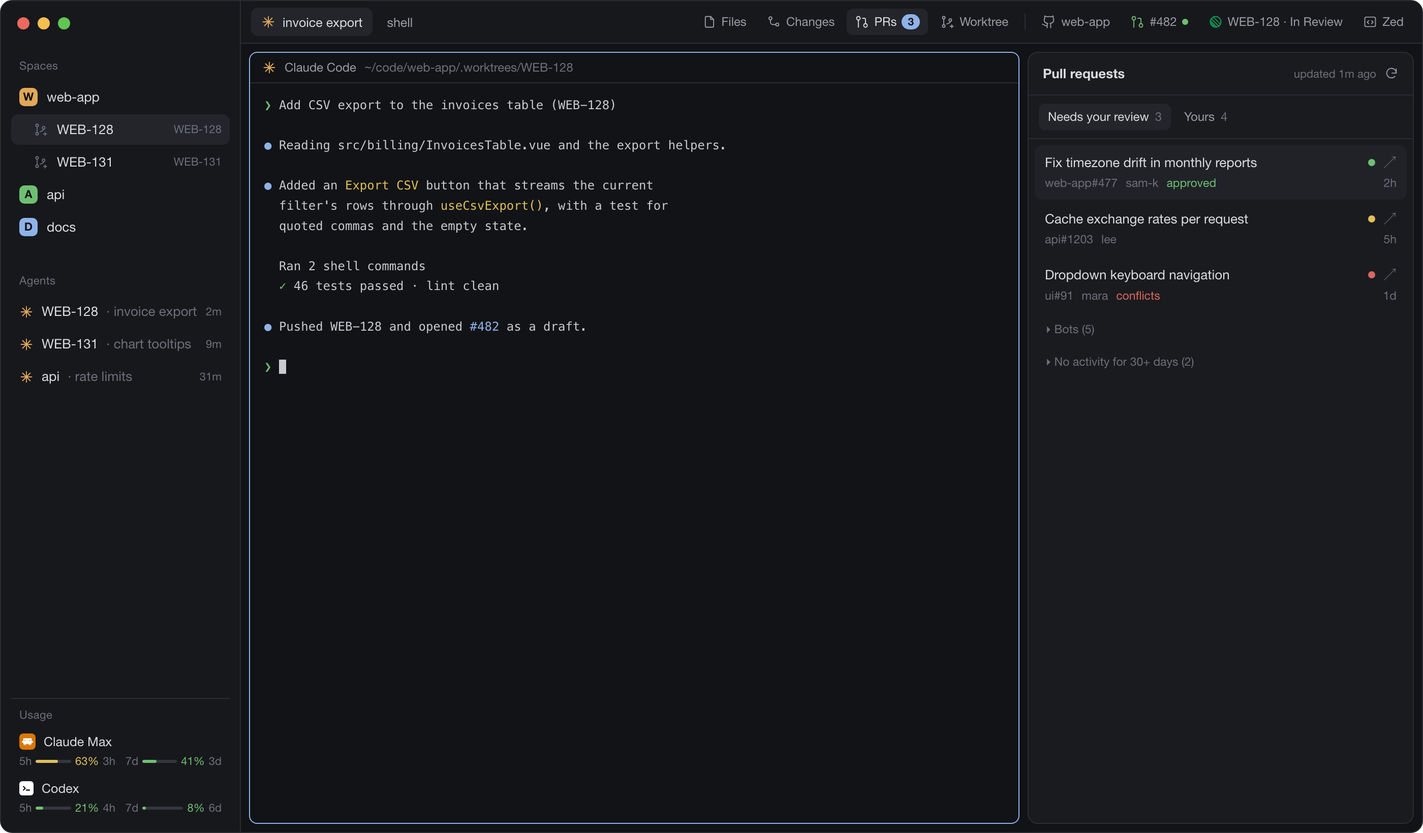
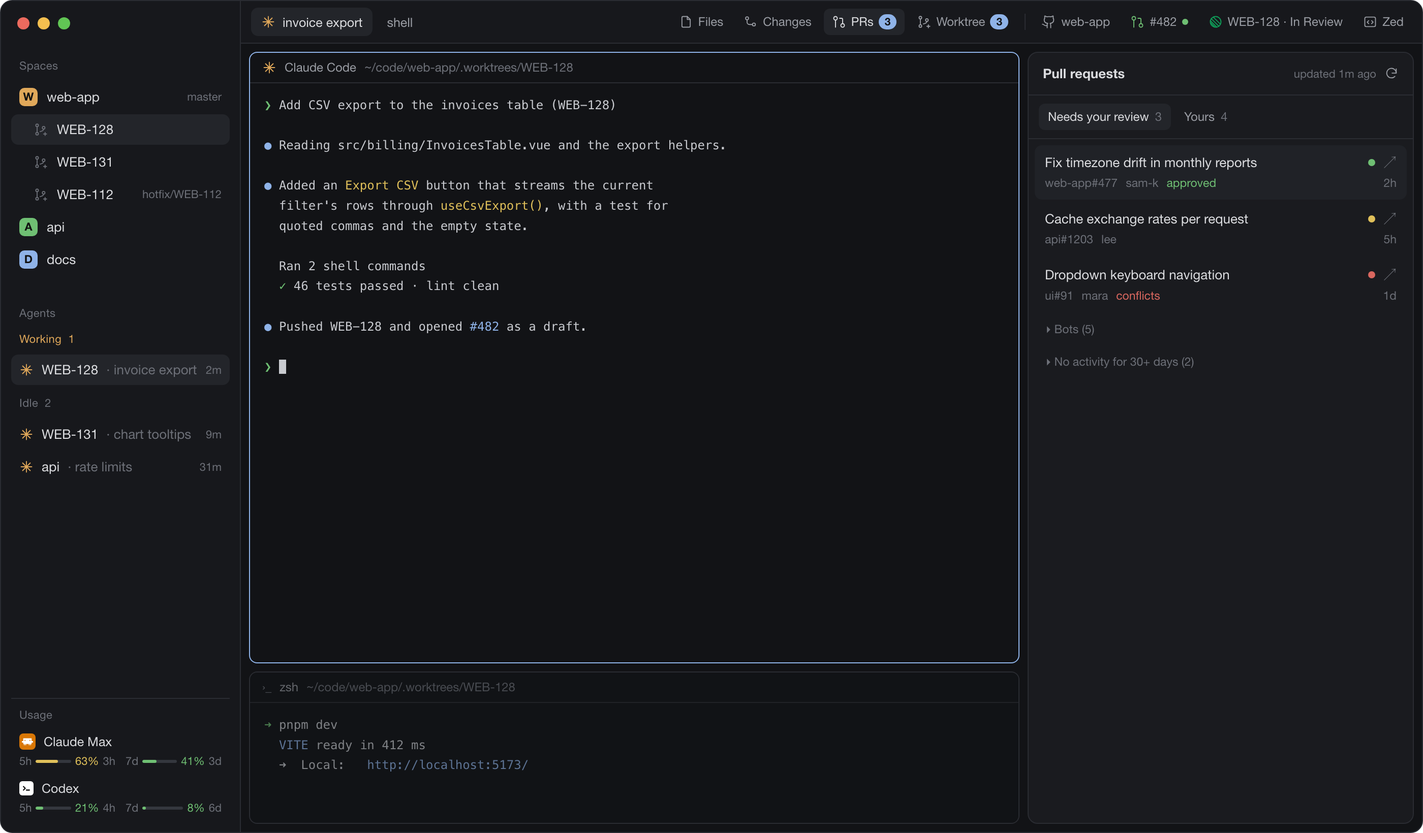
fix(issue-worktree): remove check redraw, program names; refresh mockups (#16)
* fix(issue-worktree): notify via async cx in remove check

finish() called the caller's cx after it returned, so notify threw and "Checking…" stayed. Use the cx each timer/task hands in.

* fix(issue-worktree): name running programs via ps

lsof reports the process title; Claude Code's is its version (2.1.327).

* docs: redraw worktree panel and layout mockups

Worktrees is a side panel now (Remove lists what's running, locked rows); layout shows Herdr's grouped sidebar, a faded inactive pane, the Worktree count. Card text follows.

diff --git a/docs/mockups/worktree.html b/docs/mockups/worktree.html
@@ -1,26 +1,31 @@
 <!doctype html>
-<html><head><meta charset="utf-8"><link rel="stylesheet" href="style.css"></head>
-<body style="padding:24px">
-<div class="dialog col">
-  <div class="row"><b class="grow" style="font-size:15px">New worktree</b><span class="dim" style="font-size:11px">Esc</span></div>
-  <div class="dim" style="font-size:11.5px;padding:14px 0 6px">Worktree name</div>
-  <div class="field">WEB-140</div>
-  <div class="col dim" style="font-size:11.5px;padding-top:14px;gap:3px">
-    <div>Branch&nbsp; WEB-140</div>
-    <div>Folder&nbsp; .worktrees/WEB-140 &nbsp;·&nbsp; from origin/master &nbsp;·&nbsp; opens a terminal</div>
+<html><head><meta charset="utf-8"><link rel="stylesheet" href="style.css"><style>
+  .wt { padding: 7px 10px; gap: 3px; }
+  .wt.cur { background: #262a33; }
+  .wt.ask { background: var(--raised); }
+  .sub { font-size: 11.5px; gap: 2px; }
+</style></head>
+<body style="padding:20px">
+<div class="side col" style="width:420px;height:470px;background:var(--bg)">
+  <div class="head row"><b>Worktrees</b><span class="dim" style="font-size:11px">web-app</span></div>
+  <div class="col" style="padding:10px 14px;gap:8px;border-bottom:1px solid var(--border)">
+    <div class="row" style="gap:6px"><div class="field grow" style="height:30px;border-radius:7px;font-size:12px;padding:0 9px">WEB-140</div><div class="cta primary" style="height:30px;padding:0 12px;border-radius:7px;font-size:12px">Create</div></div>
+    <div class="col dim" style="font-size:11.5px;gap:3px">
+      <div>Branch&nbsp; WEB-140</div>
+      <div class="trunc">Folder&nbsp; .worktrees/WEB-140 &nbsp;·&nbsp; from origin/master &nbsp;·&nbsp; opens a terminal</div>
+    </div>
   </div>
-  <div class="row" style="padding-top:18px;gap:8px;justify-content:flex-end"><div class="cta ghost">Cancel</div><div class="cta primary">Create</div></div>
-  <div class="row" style="margin-top:16px;padding-top:12px;border-top:1px solid var(--border);gap:6px;font-size:11.5px"><span class="dim">Existing worktrees</span><span class="dim" style="font-size:11px">4</span></div>
-  <div class="col" style="padding-top:6px;gap:2px">
-    <div class="wt col hl"><div class="row" style="gap:6px"><span class="grow trunc">WEB-128</span><span class="chip" style="color:var(--green)">#482 open <span class="dot green" style="width:6px;height:6px"></span></span><span class="chip muted"><i data-i="linear" style="width:12px;height:12px;color:#0f9d58"></i>In Review</span><span style="font-size:11px;color:var(--accent)">open</span><span class="act"><i data-i="editor" style="width:13px;height:13px"></i></span><span class="act">rename</span><span class="act">remove</span></div>
-      <div class="dim trunc" style="font-size:11.5px">~/code/web-app/.worktrees/WEB-128</div></div>
-    <div class="wt col"><div class="row" style="gap:6px"><span class="grow trunc">WEB-131</span><span class="chip dim">#479 draft <span class="dot yellow" style="width:6px;height:6px"></span></span><span class="chip muted"><i data-i="linear" style="width:12px;height:12px;color:#f2c94c"></i>In Progress</span><span style="font-size:11px;color:var(--accent)">open</span><span class="act"><i data-i="editor" style="width:13px;height:13px"></i></span><span class="act">rename</span><span class="act">remove</span></div>
-      <div class="dim trunc" style="font-size:11.5px">~/code/web-app/.worktrees/WEB-131</div></div>
-    <div class="wt col" style="background:var(--raised)"><div class="row" style="gap:6px"><span class="grow trunc">WEB-112</span><span class="chip" style="color:var(--purple)">#465 merged</span><span class="chip muted"><i data-i="linear" style="width:12px;height:12px;color:#5e6ad2"></i>Done</span><span class="dim" style="font-size:11px">2d</span><span class="act"><i data-i="editor" style="width:13px;height:13px"></i></span><span class="act">rename</span><span class="act" style="color:var(--red)">remove</span></div>
-      <div class="dim trunc" style="font-size:11.5px">~/code/web-app/.worktrees/WEB-112</div>
-      <div class="row" style="padding-top:6px;gap:6px"><span class="grow muted" style="font-size:11.5px">Remove the worktree and its local branch?</span><span class="act">cancel</span><span style="font-size:11px;background:var(--red);color:var(--bg);padding:2px 8px;border-radius:5px">Remove</span></div></div>
-    <div class="wt col"><div class="row" style="gap:6px"><span class="grow trunc">spike-cache</span><span class="dim" style="font-size:11px">5d</span><span class="act"><i data-i="editor" style="width:13px;height:13px"></i></span><span class="act">rename</span><span class="act">remove</span></div>
-      <div class="dim trunc" style="font-size:11.5px">~/code/web-app/.worktrees/spike-cache</div></div>
+  <div class="row" style="gap:6px;padding:10px 16px 4px;font-size:11.5px"><span class="dim">Existing worktrees</span><span class="dim" style="font-size:11px">4</span></div>
+  <div class="col" style="padding:6px;gap:2px">
+    <div class="wt col cur"><div class="row" style="gap:6px"><span class="grow trunc">WEB-128</span><span class="chip" style="color:var(--green)">#482 open <span class="dot green" style="width:6px;height:6px"></span></span><span class="chip muted"><i data-i="linear" style="width:12px;height:12px;color:#0f9d58"></i>In Review</span><span style="font-size:11px;color:var(--accent)">open</span></div>
+      <div class="sub row"><span class="grow trunc dim">~/code/web-app/.worktrees/WEB-128</span><span class="act"><i data-i="editor" style="width:13px;height:13px"></i></span><span class="act">rename</span><span class="act">remove</span></div></div>
+    <div class="wt col"><div class="row" style="gap:6px"><span class="grow trunc">WEB-131</span><span class="chip dim">#479 draft <span class="dot yellow" style="width:6px;height:6px"></span></span><span class="chip muted"><i data-i="linear" style="width:12px;height:12px;color:#f2c94c"></i>In Progress</span><span style="font-size:11px;color:var(--accent)">open</span></div>
+      <div class="sub row"><span class="grow trunc dim">~/code/web-app/.worktrees/WEB-131</span><span class="act"><i data-i="editor" style="width:13px;height:13px"></i></span><span class="act">rename</span><span class="act">remove</span></div></div>
+    <div class="wt col ask"><div class="row" style="gap:6px"><span class="grow trunc">WEB-112</span><span class="chip" style="color:var(--purple)">#465 merged</span><span class="chip muted"><i data-i="linear" style="width:12px;height:12px;color:#5e6ad2"></i>Done</span><span style="font-size:11px;color:var(--accent)">open</span></div>
+      <div class="sub row"><span class="grow trunc dim">hotfix/WEB-112 &nbsp;·&nbsp; ~/code/web-app/.worktrees/WEB-112</span><span class="act"><i data-i="editor" style="width:13px;height:13px"></i></span><span class="act">rename</span><span class="act">remove</span></div>
+      <div class="row" style="padding-top:6px;gap:6px"><span class="grow" style="font-size:11.5px;color:var(--red)">Still running in it: zsh (4211), claude (4230). Stop them first. Remove the worktree and its local branch, and close its space?</span><span class="act">cancel</span><span style="font-size:11px;background:var(--red);color:var(--bg);padding:2px 8px;border-radius:5px">Remove</span></div></div>
+    <div class="wt col"><div class="row" style="gap:6px"><span class="grow trunc">spike-cache</span><span style="font-size:11px;color:var(--orange)">locked</span><span class="dim" style="font-size:11px">5d</span></div>
+      <div class="sub row"><span class="grow trunc dim">~/code/web-app/.worktrees/spike-cache</span><span class="act"><i data-i="editor" style="width:13px;height:13px"></i></span><span class="act">rename</span><span class="act">remove</span></div></div>
   </div>
 </div>
 <script src="icons.js"></script>

diff --git a/docs/mockups/overview.html b/docs/mockups/overview.html
@@ -1,5 +1,6 @@
 <!doctype html>
 <html><head><meta charset="utf-8"><link rel="stylesheet" href="style.css"><style>
+  .veil { position: relative; } .veil::after { content: ""; position: absolute; inset: 0; background: rgba(18,19,22,.4); }
   .usage { width: 268px; background: var(--chrome); border: 1px solid var(--border); border-radius: 10px; padding: 8px 10px 6px; gap: 2px; }
   .acct { padding: 4px 8px; gap: 3px; border-radius: 7px; font-size: 12.5px; }
   .gs { gap: 10px; font-size: 11px; }
@@ -13,13 +14,16 @@
   <div class="sidebar col">
     <div class="lights row"><i></i><i></i><i></i></div>
     <div class="label">Spaces</div>
-    <div class="space row"><span class="badge" style="background:#e0a85a">W</span>web-app</div>
-    <div class="space row sub on"><i data-i="worktree" style="color:var(--dim)"></i>WEB-128<span class="branch dim">WEB-128</span></div>
-    <div class="space row sub"><i data-i="worktree" style="color:var(--dim)"></i>WEB-131<span class="branch dim">WEB-131</span></div>
+    <div class="space row"><span class="badge" style="background:#e0a85a">W</span>web-app<span class="branch dim" style="margin-left:auto;font-size:11px">master</span></div>
+    <div class="space row sub on"><i data-i="worktree" style="color:var(--dim)"></i>WEB-128</div>
+    <div class="space row sub"><i data-i="worktree" style="color:var(--dim)"></i>WEB-131</div>
+    <div class="space row sub"><i data-i="worktree" style="color:var(--dim)"></i>WEB-112<span class="branch dim">hotfix/WEB-112</span></div>
     <div class="space row"><span class="badge" style="background:#6fbf73">A</span>api</div>
     <div class="space row"><span class="badge" style="background:#8fb3e8">D</span>docs</div>
     <div class="label" style="margin-top:18px">Agents</div>
-    <div class="agent row"><i data-i="claude" style="color:var(--orange)"></i>WEB-128<span class="dim trunc">· invoice export</span><span class="ago">2m</span></div>
+    <div class="label" style="padding-top:2px;color:var(--orange)">Working&nbsp; 1</div>
+    <div class="agent row on" style="background:var(--raised)"><i data-i="claude" style="color:var(--orange)"></i>WEB-128<span class="dim trunc">· invoice export</span><span class="ago">2m</span></div>
+    <div class="label" style="padding-top:8px">Idle&nbsp; 2</div>
     <div class="agent row"><i data-i="claude" style="color:var(--orange)"></i>WEB-131<span class="dim trunc">· chart tooltips</span><span class="ago">9m</span></div>
     <div class="agent row"><i data-i="claude" style="color:var(--orange)"></i>api<span class="dim trunc">· rate limits</span><span class="ago">31m</span></div>
     <div class="grow"></div>
@@ -37,7 +41,7 @@
       <div class="btn row"><i data-i="file"></i>Files</div>
       <div class="btn row"><i data-i="changes"></i>Changes</div>
       <div class="btn row on"><i data-i="pr"></i>PRs<span class="count">3</span></div>
-      <div class="btn row"><i data-i="worktree"></i>Worktree</div>
+      <div class="btn row"><i data-i="worktree"></i>Worktree<span class="count">3</span></div>
       <div class="sep"></div>
       <div class="btn row"><i data-i="github"></i>web-app</div>
       <div class="btn row"><i data-i="pr" style="color:var(--green)"></i>#482<span class="dot green" style="width:6px;height:6px"></span></div>
@@ -45,6 +49,7 @@
       <div class="btn row"><i data-i="editor"></i>Zed</div>
     </div>
     <div class="work row" style="align-items:stretch">
+      <div class="col grow" style="gap:8px">
       <div class="pane col focus">
         <div class="head row"><i data-i="claude" style="color:var(--orange)"></i>Claude Code<span class="dim">~/code/web-app/.worktrees/WEB-128</span></div>
 <div class="term"><span class="p">❯</span> Add CSV export to the invoices table (WEB-128)
@@ -62,6 +67,14 @@
 
 <span class="p">❯</span> <span style="background:#c9cbd0">&nbsp;</span>
 </div>
+      </div>
+      <div class="pane col veil" style="flex:none;height:150px">
+        <div class="head row"><span class="dim">›_</span>zsh<span class="dim">~/code/web-app/.worktrees/WEB-128</span></div>
+<div class="term"><span class="p">➜</span> pnpm dev
+  <span class="b">VITE</span> ready in 412 ms
+  ➜  Local:   <span class="b">http://localhost:5173/</span>
+</div>
+      </div>
       </div>
       <div class="side col">
         <div class="head row"><b>Pull requests</b><div class="grow"></div><span class="dim" style="font-size:11px">updated 1m ago</span><i data-i="refresh" style="color:var(--muted)"></i></div>

diff --git a/custom-herdr/mods/issue-worktree/main.js b/custom-herdr/mods/issue-worktree/main.js
@@ -76,9 +76,16 @@ async function runningIn(path) {
   for (const line of r.stdout.split("\n")) {
     if (line[0] === "p") pid = line.slice(1);
     else if (line[0] === "c") cmd = line.slice(1);
-    else if (line[0] === "n" && (line.slice(1) === path || line.slice(1).startsWith(`${path}/`))) out.push(`${cmd} (${pid})`);
+    else if (line[0] === "n" && (line.slice(1) === path || line.slice(1).startsWith(`${path}/`))) out.push([pid, cmd]);
   }
-  return [...new Set(out)];
+  if (!out.length) return [];
+  // lsof gives the process title, which some tools rewrite (Claude Code's is
+  // its version, "2.1.327"); ps gives the program's own name.
+  const pids = [...new Set(out.map(([pid]) => pid))];
+  const ps = await exec("ps", ["-o", "pid=,comm=", "-p", pids.join(",")], { timeout: 5_000 }).catch(() => null);
+  const names = new Map((ps?.stdout ?? "").trim().split("\n").map((l) => l.trim().match(/^(\d+)\s+(.+)$/)).filter(Boolean)
+    .map(([, pid, comm]) => [pid, comm.slice(comm.lastIndexOf("/") + 1)]));
+  return [...new Set(out.map(([pid, cmd]) => `${names.get(pid) || cmd} (${pid})`))];
 }
 
 // PRs per branch, by repo root, kept in module scope on purpose: each dialog
@@ -362,23 +369,25 @@ export default class IssueWorktree extends View {
     const started = Date.now();
     this.checking = started;
     // However the checks end (done, failed, or stuck past 20s), the spinner goes.
-    const finish = (confirm, error) => {
+    // The cx of each async callback, never the caller's: that one is dead
+    // once the click or render that started this has returned.
+    const finish = (cx, confirm, error) => {
       if (this.checking !== started) return;
       this.checking = null; this.busy = null; this.busyPath = null;
       if (confirm) this.confirm = confirm;
       if (error) this.error = error;
       cx.notify();
     };
-    cx.timer.after(20_000, () => finish(null, "Checking this worktree took too long (git status or lsof didn't answer). Try Remove again."));
-    this.busyTask = cx.spawn(async () => {
+    cx.timer.after(20_000, (cx) => finish(cx, null, "Checking this worktree took too long (git status or lsof didn't answer). Try Remove again."));
+    this.busyTask = cx.spawn(async (cx) => {
       try {
         const [status, running] = await Promise.all([
           git(["--no-optional-locks", "status", "--porcelain"], c.path, 15_000).catch((e) => ({ code: -1, stdout: "", stderr: String(e?.message ?? e) })),
           runningIn(c.path),
         ]);
-        finish({ path: c.path, dirty: status.code !== 0 || status.stdout.trim() !== "", running, locked: c.locked });
+        finish(cx, { path: c.path, dirty: status.code !== 0 || status.stdout.trim() !== "", running, locked: c.locked });
       } catch (e) {
-        finish(null, `Couldn't check this worktree: ${e?.message ?? e}`);
+        finish(cx, null, `Couldn't check this worktree: ${e?.message ?? e}`);
       }
     });
   }

diff --git a/issue-worktree/mods/issue-worktree/main.js b/issue-worktree/mods/issue-worktree/main.js
@@ -76,9 +76,16 @@ async function runningIn(path) {
   for (const line of r.stdout.split("\n")) {
     if (line[0] === "p") pid = line.slice(1);
     else if (line[0] === "c") cmd = line.slice(1);
-    else if (line[0] === "n" && (line.slice(1) === path || line.slice(1).startsWith(`${path}/`))) out.push(`${cmd} (${pid})`);
+    else if (line[0] === "n" && (line.slice(1) === path || line.slice(1).startsWith(`${path}/`))) out.push([pid, cmd]);
   }
-  return [...new Set(out)];
+  if (!out.length) return [];
+  // lsof gives the process title, which some tools rewrite (Claude Code's is
+  // its version, "2.1.327"); ps gives the program's own name.
+  const pids = [...new Set(out.map(([pid]) => pid))];
+  const ps = await exec("ps", ["-o", "pid=,comm=", "-p", pids.join(",")], { timeout: 5_000 }).catch(() => null);
+  const names = new Map((ps?.stdout ?? "").trim().split("\n").map((l) => l.trim().match(/^(\d+)\s+(.+)$/)).filter(Boolean)
+    .map(([, pid, comm]) => [pid, comm.slice(comm.lastIndexOf("/") + 1)]));
+  return [...new Set(out.map(([pid, cmd]) => `${names.get(pid) || cmd} (${pid})`))];
 }
 
 // PRs per branch, by repo root, kept in module scope on purpose: each dialog
@@ -362,23 +369,25 @@ export default class IssueWorktree extends View {
     const started = Date.now();
     this.checking = started;
     // However the checks end (done, failed, or stuck past 20s), the spinner goes.
-    const finish = (confirm, error) => {
+    // The cx of each async callback, never the caller's: that one is dead
+    // once the click or render that started this has returned.
+    const finish = (cx, confirm, error) => {
       if (this.checking !== started) return;
       this.checking = null; this.busy = null; this.busyPath = null;
       if (confirm) this.confirm = confirm;
       if (error) this.error = error;
       cx.notify();
     };
-    cx.timer.after(20_000, () => finish(null, "Checking this worktree took too long (git status or lsof didn't answer). Try Remove again."));
-    this.busyTask = cx.spawn(async () => {
+    cx.timer.after(20_000, (cx) => finish(cx, null, "Checking this worktree took too long (git status or lsof didn't answer). Try Remove again."));
+    this.busyTask = cx.spawn(async (cx) => {
       try {
         const [status, running] = await Promise.all([
           git(["--no-optional-locks", "status", "--porcelain"], c.path, 15_000).catch((e) => ({ code: -1, stdout: "", stderr: String(e?.message ?? e) })),
           runningIn(c.path),
         ]);
-        finish({ path: c.path, dirty: status.code !== 0 || status.stdout.trim() !== "", running, locked: c.locked });
+        finish(cx, { path: c.path, dirty: status.code !== 0 || status.stdout.trim() !== "", running, locked: c.locked });
       } catch (e) {
-        finish(null, `Couldn't check this worktree: ${e?.message ?? e}`);
+        finish(cx, null, `Couldn't check this worktree: ${e?.message ?? e}`);
       }
     });
   }

diff --git a/docs/mockups/card.html b/docs/mockups/card.html
@@ -21,14 +21,14 @@ const UNITS = {
   "quick-links": { tag: "GitHub, PR, CI and Linear for the focused terminal, in the top bar.",
     bullets: ["Repo, branch PR and a CI dot", "PRs in other repos that name the issue", "Linear issue with its status, worktree, editor"],
     page: "topbar.html", w: 920, h: 200, scale: 1.0, x: 60, y: 300 },
-  "issue-worktree": { tag: "One git worktree per issue, made and cleaned up from one dialog.",
-    bullets: ["Name it after the issue, opens a space", "PR state and CI for every worktree", "Rename, remove, open in your editor"],
-    page: "worktree.html", w: 568, h: 620, scale: 1.12, x: 200, y: 60 },
+  "issue-worktree": { tag: "One git worktree per issue, made and cleaned up from a side panel.",
+    bullets: ["Name it after the issue, opens a space", "PR, CI and Linear status for every worktree", "Remove says what's still running in it"],
+    page: "worktree.html", w: 460, h: 510, scale: 1.3, x: 200, y: 60 },
   "pr-inbox": { tag: "Pull requests waiting on you, and yours, in a side panel.",
     bullets: ["Review state, conflicts, CI and age", "Click: your space for it, else GitHub", "Bots and stale PRs fold away"],
     page: "prinbox.html", w: 440, h: 510, scale: 1.3, x: 230, y: 60 },
   "files-md": { tag: "Herdr's Files panel, with markdown rendered.",
-    bullets: ["Preview and Source for .md files", "Syntax highlighting for the rest", "Open the file in your editor"],
+    bullets: ["Preview and Source for .md files", "⌘-click a path in a terminal opens it here", "Open the file in your editor"],
     page: "files.html", w: 488, h: 524, scale: 1.25, x: 230, y: 60 },
   "changes-editor": { tag: "Herdr's Changes panel, one click from your editor.",
     bullets: ["Changed files and their diffs", "Open the selected file in your editor", "Commit from the panel, as before"],
@@ -37,7 +37,7 @@ const UNITS = {
     bullets: ["A row per Claude plan, e.g. Team, Ultra; and Codex", "Every limit as a gauge with its reset", "Green, yellow from 50%, red from 80%"],
     page: "usage.html", w: 310, h: 215, scale: 1.8, x: 220, y: 200 },
   "custom-herdr": { kind: "HERDR LAYOUT", tag: "Herdr's main layout with the whole worktree-per-issue kit wired in.",
-    bullets: ["Quick links in the top bar, usage in the sidebar", "Files, Changes and PRs side panels", "Worktree dialog on ⌘⌥N, PR inbox on ⌘⌥P"],
+    bullets: ["Quick links in the top bar, usage in the sidebar", "Files, Changes, PRs and Worktrees panels", "Inactive panes fade; ⌘⌥N and ⌘⌥P for panels"],
     page: "overview.html", w: 1400, h: 820, scale: 0.68, x: 40, y: 120 },
 };
 const unit = new URLSearchParams(location.search).get("unit"), u = UNITS[unit];

diff --git a/docs/mockups/topbar.html b/docs/mockups/topbar.html
@@ -10,7 +10,7 @@
     <div class="btn row"><i data-i="file"></i>Files</div>
     <div class="btn row"><i data-i="changes"></i>Changes</div>
     <div class="btn row"><i data-i="pr"></i>PRs<span class="count">3</span></div>
-    <div class="btn row"><i data-i="worktree"></i>Worktree</div>
+    <div class="btn row"><i data-i="worktree"></i>Worktree<span class="count">3</span></div>
     <div class="sep"></div>
     <div class="btn row"><i data-i="github"></i>web-app</div>
     <div class="btn row on"><i data-i="pr" style="color:var(--dim)"></i>#482<span class="dot red" style="width:6px;height:6px"></span></div>

diff --git a/README.md b/README.md
@@ -4,7 +4,7 @@
 
 Mods and a layout for the [Herdr](https://herdr.dev) desktop app, built around
 one git worktree per Linear issue: GitHub, PR, CI and Linear links for the
-focused terminal, a worktree dialog, a PR inbox, markdown previews, and "open in
+focused terminal, a worktrees panel, a PR inbox, markdown previews, and "open in
 your editor" everywhere.
 
 ![The custom-herdr layout: quick links in the top bar, the PR inbox open on the right](custom-herdr/screenshot.png)
@@ -29,7 +29,7 @@ and a screenshot. Take one or all.
 | [`custom-herdr`](custom-herdr) | Layout: Herdr's main layout with all of the above wired in (bundles its own copies of the mods) |
 
 <p>
-  <img src="issue-worktree/screenshot.png" alt="The worktree dialog: a name field, then the existing worktrees with their PRs, CI, rename and remove" width="49%">
+  <img src="issue-worktree/screenshot.png" alt="The Worktrees panel: a name field, then the existing worktrees with their PRs, CI and Linear status, one confirming Remove" width="49%">
   <img src="files-md/screenshot.png" alt="The Files panel showing a rendered markdown file with Source and Open in Zed buttons" width="42%">
 </p>
 
@@ -105,7 +105,7 @@ They're trusted code, like any Herdr mod, and run as you:
 | Mod | Programs | Network | Files outside its folder |
 | --- | --- | --- | --- |
 | quick-links | `git` (remote, branch, rev-parse), `gh pr view`, `gh search prs`, your editor, `open`; with a Linear key: `security`, `curl` | GitHub, through `gh`; Linear's API | reads `herdr-mods.json` and other mods' `mod.json`; reads the Linear key from the Keychain |
-| issue-worktree | `git` (fetch, worktree add/move/remove, branch -m/-D, status), `gh api graphql`, your editor; with a Linear key: `security`, `curl` | GitHub (`gh`), your git remote (`git fetch`), Linear's API | appends `.worktrees/` to the repo's `.git/info/exclude` when it isn't ignored; reads `herdr-mods.json`; reads the Linear key from the Keychain |
+| issue-worktree | `git` (fetch, worktree add/move/remove, branch -m/-D, status), `lsof` and `ps` (what's running in a worktree), `gh api graphql`, your editor; with a Linear key: `security`, `curl` | GitHub (`gh`), your git remote (`git fetch`), Linear's API | appends `.worktrees/` to the repo's `.git/info/exclude` when it isn't ignored; reads `herdr-mods.json`; reads the Linear key from the Keychain |
 | pr-inbox | `gh api graphql`, `open` | GitHub, through `gh` | none |
 | files-md | Herdr's own (`git`, file reads), your editor, `cp`/`curl`/`sips` for markdown images, `test -f` on a Cmd-clicked terminal path | remote images in markdown files (`curl`) | reads `herdr-mods.json`; caches images in `data/files-md/img` |
 | changes-editor | Herdr's own (`git`, file reads) plus your editor | none added | reads `herdr-mods.json` |
@@ -122,7 +122,7 @@ uncommitted changes).
 - quick-links keeps its lookups in localStorage, so links show at once after a
   restart and refresh behind. A PR is looked up again after 30 s while its CI
   runs, 60 s while open, 10 min once merged or closed.
-- The worktree dialog fetches every worktree's PR in one GitHub request and
+- The worktrees panel fetches every worktree's PR in one GitHub request and
   remembers it between opens for a minute.
 - The PR inbox refreshes every 3 minutes while shown, every 10 while hidden, and
   keeps its last result on disk. Shared values are written only when they change

diff --git a/issue-worktree/RECIPE.md b/issue-worktree/RECIPE.md
@@ -154,7 +154,8 @@ with its pull request and CI, an open-in-editor button, rename and remove.
 - A process running inside the worktree (a dev server, an agent's shell) can make
   `git worktree remove` stop partway: git drops its record and the `.git` file but
   files stay, and every retry fails with "is not a working tree". The confirm lists
-  such processes (`lsof -a -d cwd`); on failure the mod runs `git worktree prune`
+  such processes (`lsof -a -d cwd`, named by `ps -o comm`: lsof gives the process
+  title, and Claude Code's is its version, like "2.1.327"); on failure the mod runs `git worktree prune`
   and, if git no longer lists the path and it's inside `<repo>/.worktrees/`,
   deletes the folder.
 

diff --git a/custom-herdr/README.md b/custom-herdr/README.md
@@ -3,9 +3,9 @@
 Herdr's main layout with the whole kit wired in: `quick-links` in the top bar,
 `files-md`, `changes-editor`, `pr-inbox` and `issue-worktree` as the side panels, `usage-limits`
 at the bottom of the sidebar, and shortcuts for
-the worktree dialog and the PR inbox.
+the Worktrees panel and the PR inbox.
 
-![The custom-herdr layout: spaces and agents on the left, a Claude Code pane, quick links in the top bar and the PR inbox open on the right](screenshot.png)
+![The custom-herdr layout: spaces with their worktrees and agents on the left, a focused Claude Code pane over a faded shell, quick links in the top bar and the PR inbox open on the right](screenshot.png)
 
 ## What's in it
 

diff --git a/issue-worktree/README.md b/issue-worktree/README.md
@@ -5,7 +5,7 @@ and it makes `<repo>/.worktrees/<name>` on a branch of that name, from a fresh
 `origin/master`, and opens a space there. Below, every existing worktree with
 its PR and CI, ready to open, rename or remove.
 
-![The New worktree dialog: the name WEB-140, then four worktrees with PR state, CI dots, open, editor, rename and remove, one asking to confirm Remove](screenshot.png)
+![The Worktrees panel: the name WEB-140, then four worktrees with PR state, CI dots and Linear status; one asks to confirm Remove and names what's still running in it, one is locked](screenshot.png)
 
 ## What it does
 
